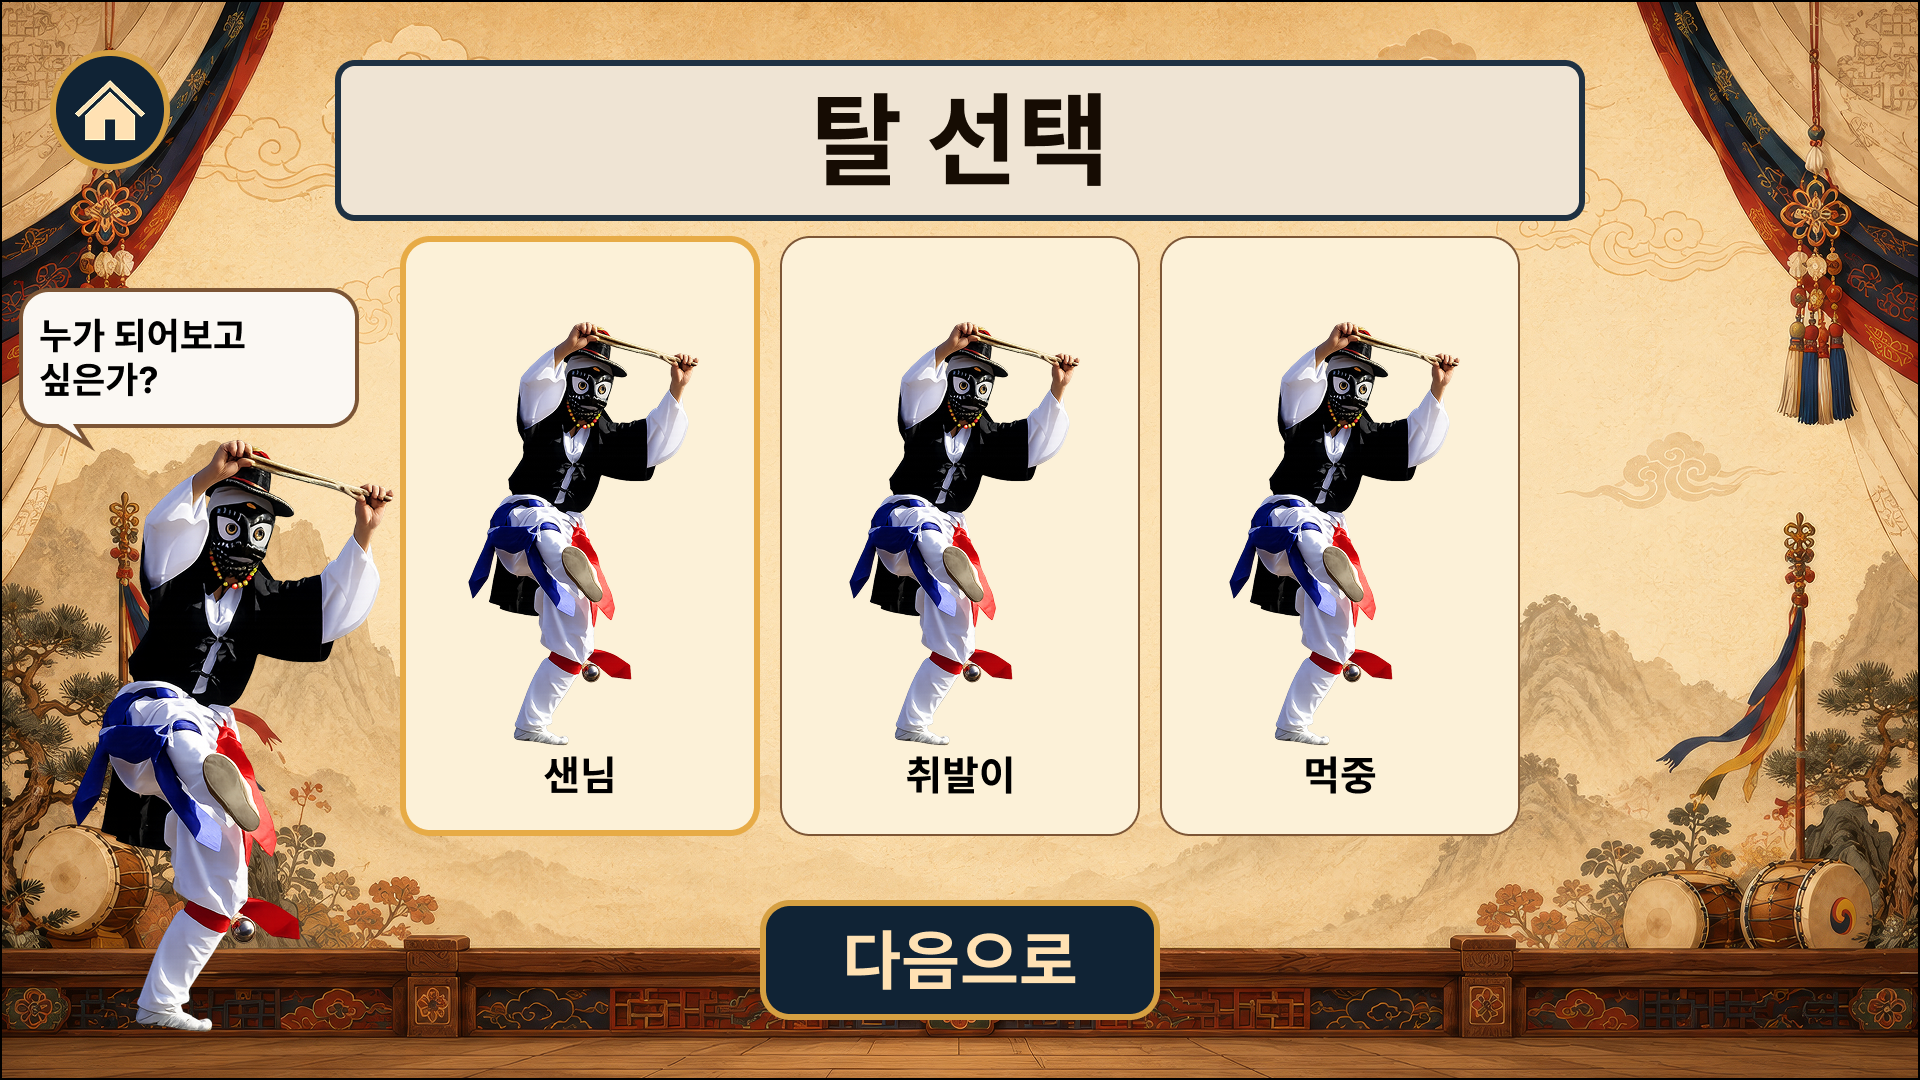
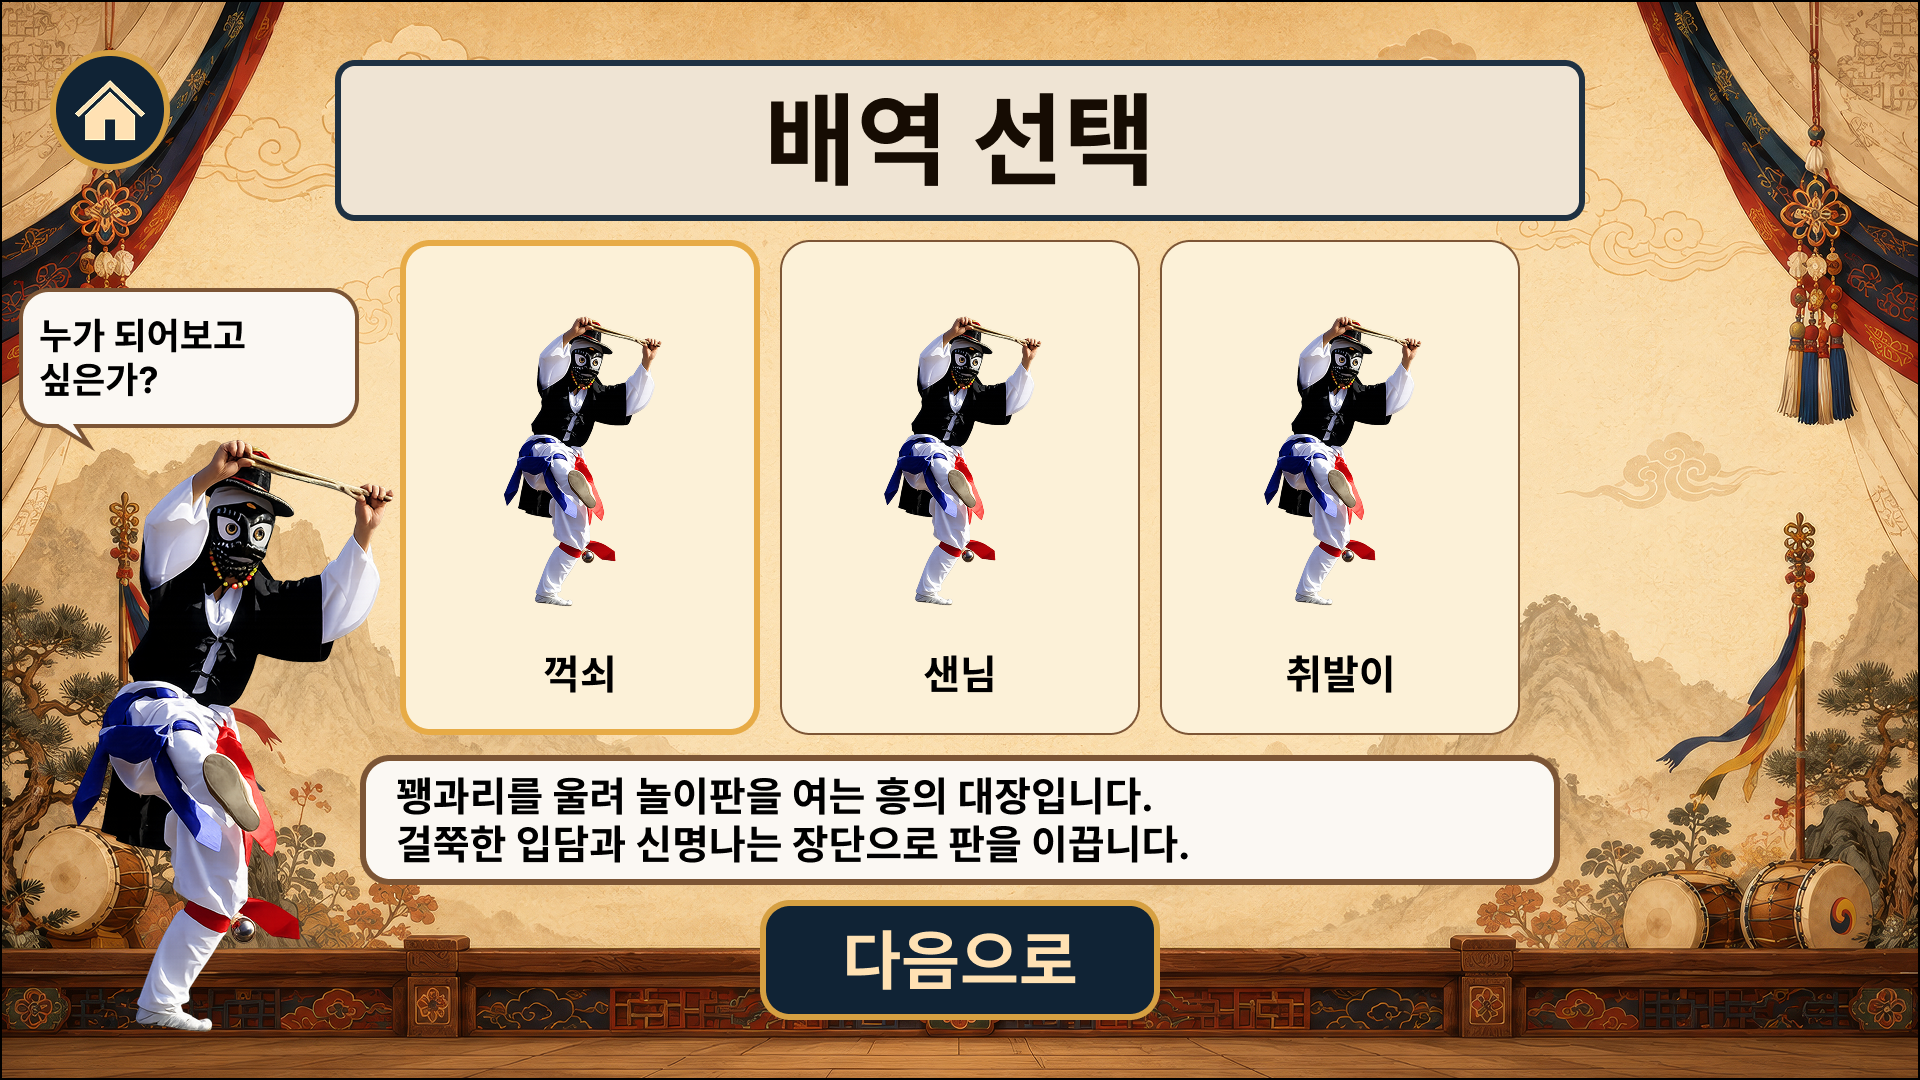
update: 탈춤 재설계 후속 반영 (배역 안내 불릿, 현지화 5_x 키 재편, 2장 플로우 이미지 교체)

Changed region(s): [[0.1875, 0.275, 0.8125, 0.825], [0.375, 0.0917, 0.625, 0.1833], [0.2188, 0.2139, 0.7812, 0.2444]]

diff --git a/04_Projects/시범콘텐츠/덧뵈기 - 나만의 탈춤/덧뵈기 - 나만의 탈춤 기획서.md b/04_Projects/시범콘텐츠/덧뵈기 - 나만의 탈춤/덧뵈기 - 나만의 탈춤 기획서.md
@@ -354,6 +354,7 @@ updated: 2026-08-05
 - **목록 구성**: 유저가 선택할 수 있는 탈 배역 목록. 제공 배역과 종수, 목록 순서는 탈과 배역 동작 고증에서 확정함(1차년도 개발 시에는 꺽쇠, 샌님, 취발이로 개발 진행)
 - **기본 선택**: 진입 시 목록 첫 번째 배역을 기본 선택으로 둠
 - **미리보기**: 선택한 배역의 상징 동작 시연 영상을 루프로 보여주어 어떤 춤을 추게 될지 보고 고르게 함. 시연 영상은 가능하면 Step 3 동작 가이드의 코치 시연 영상을 재활용하고, 선택 화면에서는 무음 재생을 잠정 적용함
+- **배역 안내**: 배역 선택 시 해당 배역 설명 표시
 
 ### 4.2.2 서버: 선택 배역 저장
 
